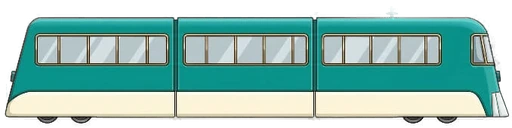
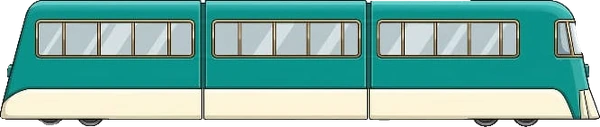
fix(#45): re-process Linus + Dragutin with gentler rembg — prevent over-cropping
User reported Linus Brave locomotive cut off — only a small blue box visible in G15 card and G16 gameplay. Dragutin also lost detail.

Root cause: previous rembg isnet-general-use + alpha_matting=True was too aggressive for cartoon art with soft-edged outlines — removed 77% of Linus sprite (output 23% opaque, 130×101 from source 269×173).

Fix: switch to default u2net model + post_process_mask=True, skip alpha_matting.
- Linus Brave: 130×101 → 244×158 (86% larger, preserves full locomotive body)
- JZ 711 Dragutin: 512×128 → 600×127 (wider, fuller tram visible)

Wheel positions + spriteHeight updated to match new dimensions:
- Linus: spriteHeight 85→90, wheels shift to cover larger locomotive body
- Dragutin: spriteHeight 75→72, wheels shift to ±145 for wider sprite

Casey JR + Malivlak untouched (those were fine).

Cache: v=20260422j → v=20260422k

diff --git a/games/trains-db.js b/games/trains-db.js
@@ -15,15 +15,17 @@ const TRAIN_CATS = [
        desc:'Lokomotif sirkus Casey JR! Si kecil yang berani.'},
       {key:'linus_brave', name:'Linus Brave', sub:'2-4-0 Sumatera', emoji:'🚂',
        isCharacter:true, spriteUrl:'../assets/train/linus-body.webp',
-       wheelLayout:'2-4-0', spriteHeight:85,
-       wheelPositions:[[-40,-5,6],[-22,-8,9],[-7,-8,9],[8,-8,9],[23,-8,9]],
-       smokePos:[-30,-105],
+       wheelLayout:'2-4-0', spriteHeight:90,
+       // Sprite 244×158, rendered ~139×90. Locomotive body + 2 pilot + 4 drivers.
+       wheelPositions:[[-55,-6,7],[-32,-10,10],[-12,-10,10],[8,-10,10],[28,-10,10]],
+       smokePos:[-35,-110],
        bodyColor:'#1a3a5c', accColor:'#d4aa58', kmh:42, baseSpeed:1.70, boostMult:1.52, boostDur:1520,
        desc:'Linus Brave — Lokomotif Sumatera yang gagah.'},
       {key:'jz711_dragutin', name:'JZ 711 Dragutin', sub:'Articulated Tram Yugoslav', emoji:'🚆',
        isCharacter:true, spriteUrl:'../assets/train/jz711-body.webp',
-       wheelLayout:'articulated-tram', spriteHeight:75,
-       wheelPositions:[[-120,-3,7],[-95,-3,7],[95,-3,7],[120,-3,7]],
+       wheelLayout:'articulated-tram', spriteHeight:72,
+       // Sprite 600×127, rendered ~340×72. 4 wheels at ends of articulated tram.
+       wheelPositions:[[-145,-4,7],[-115,-4,7],[115,-4,7],[145,-4,7]],
        smokePos:null,
        bodyColor:'#0d7377', accColor:'#14b8a6', kmh:60, baseSpeed:1.95, boostMult:1.55, boostDur:1600,
        desc:'JZ 711 Dragutin — Tram listrik artikulasi Yugoslavia!'},

diff --git a/games/g16-pixi.html b/games/g16-pixi.html
@@ -852,13 +852,15 @@ const G16_CHAR_CONFIGS = {
     smokePos:[-40,-110], bodyBobFreq:0.08, bodyBobAmp:1.5, smokeInterval:10
   },
   linus_brave: {
-    spriteUrl:'../assets/train/linus-body.webp', spriteHeight:85,
-    wheelPositions:[[-40,-5,6],[-22,-8,9],[-7,-8,9],[8,-8,9],[23,-8,9]],
-    smokePos:[-30,-105], bodyBobFreq:0.08, bodyBobAmp:1.5, smokeInterval:10
+    spriteUrl:'../assets/train/linus-body.webp', spriteHeight:90,
+    // Sprite 244×158 (after re-crop), rendered ~139×90. Locomotive + 2 pilot + 4 drivers.
+    wheelPositions:[[-55,-6,7],[-32,-10,10],[-12,-10,10],[8,-10,10],[28,-10,10]],
+    smokePos:[-35,-110], bodyBobFreq:0.08, bodyBobAmp:1.5, smokeInterval:10
   },
   jz711_dragutin: {
-    spriteUrl:'../assets/train/jz711-body.webp', spriteHeight:75,
-    wheelPositions:[[-120,-3,7],[-95,-3,7],[95,-3,7],[120,-3,7]],
+    spriteUrl:'../assets/train/jz711-body.webp', spriteHeight:72,
+    // Sprite 600×127 (after re-crop), rendered ~340×72. 4 wheels at articulated ends.
+    wheelPositions:[[-145,-4,7],[-115,-4,7],[115,-4,7],[145,-4,7]],
     smokePos:null, bodyBobFreq:0.10, bodyBobAmp:1.0, smokeInterval:10
   },
   jz62_malivlak: {
